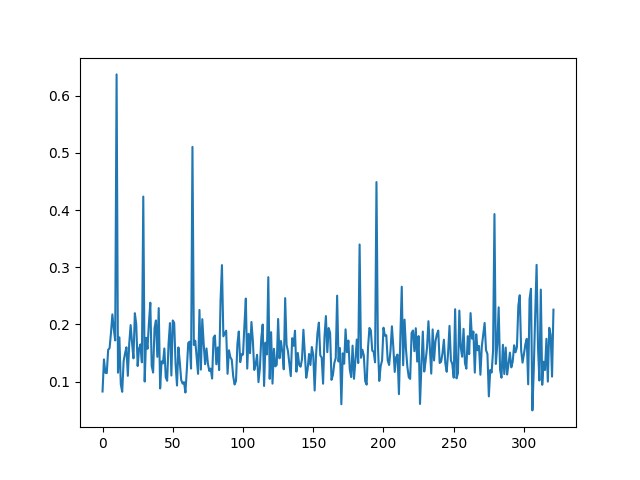
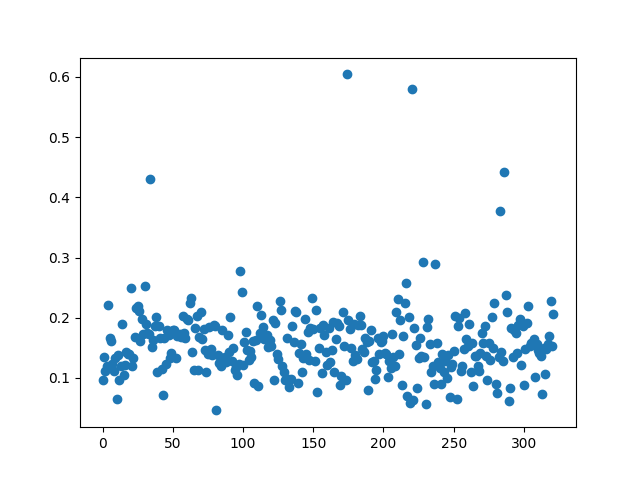
Update CER graph

diff --git a/test.py b/test.py
@@ -52,6 +52,6 @@ print(f'Overall CER: {sum(met) / len(met)}')
 import matplotlib.pyplot as plt
 ys = met
 xs = [x for x in range(len(ys))]
-plt.plot(xs, ys)
+plt.scatter(xs, ys)
 plt.show()
     
